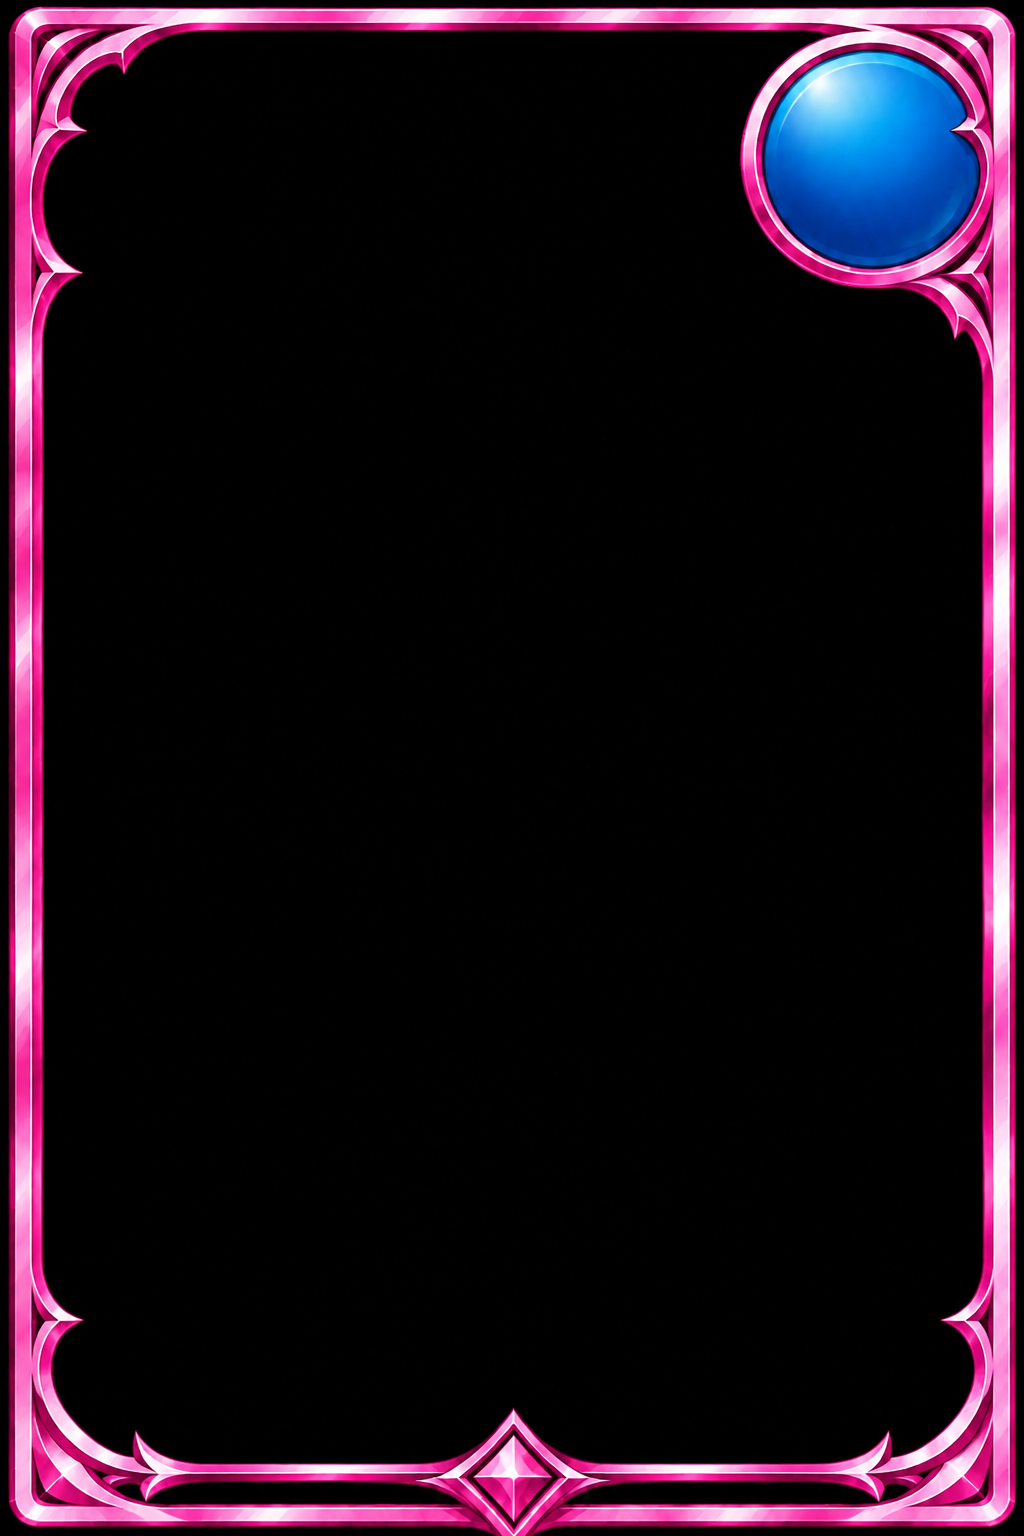
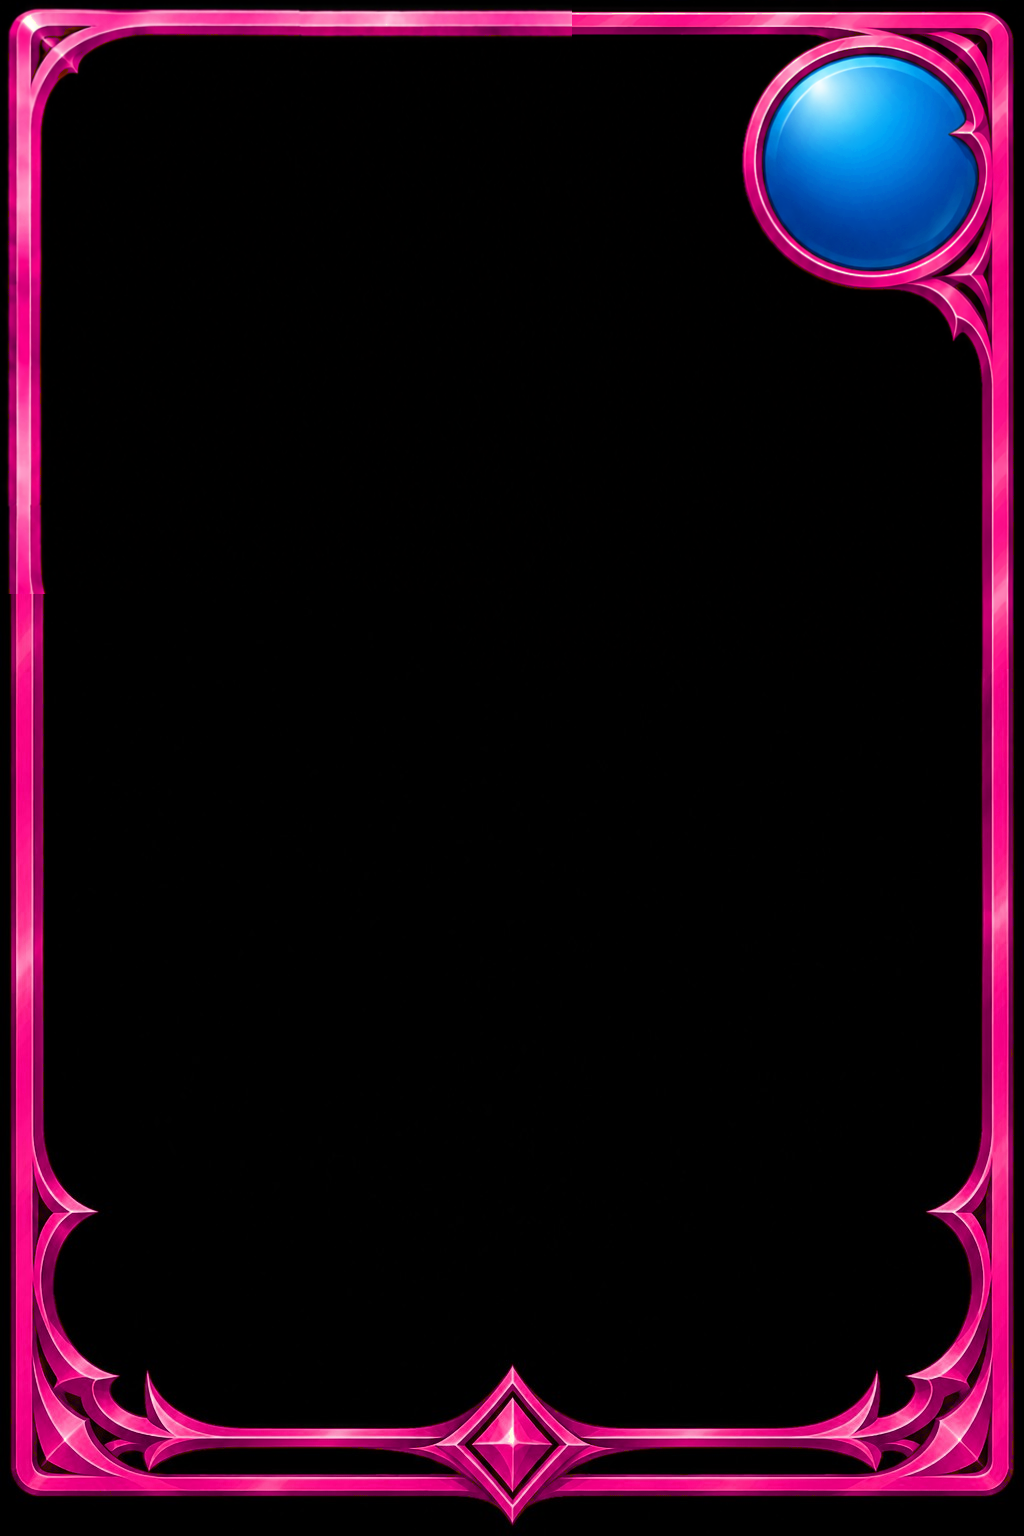
Khung lá phép nhanh: dùng khung hồng mới (đổi từ khung vàng)
Claude-Session: https://claude.ai/code/session_01XgSG6Z9xW8491CKVgy52Z1

Changed region(s): [[0.0, 0.0, 1.0, 1.0]]

diff --git a/src/lib/updates.ts b/src/lib/updates.ts
@@ -871,6 +871,7 @@ export const PENDING_NOTES: string[] = [
   "Lời nhắc giữa sân chỉ còn chữ trơn, không còn bảng.",
   "Lá phép nhanh trên tay có khung hồng mới.",
   "Lá phép/skill phản ứng được: bỏ chớp cam, thay bằng viền và glow màu của phép/skill, lá thở nhẹ.",
+  "Khung lá phép nhanh trên tay đổi sang khung hồng mới.",
 ];
 
 function remarkOf(notes: string[]) {

diff --git a/TIEP-TUC.md b/TIEP-TUC.md
@@ -631,3 +631,5 @@ Chủ game trả lời (29/10), CHƯA LÀM gì, chờ "ok" và trả lời câu 
 - KHUNG LÁ PHÉP NHANH HỒNG 02/11 (chủ game gửi 2 ảnh; Sonnet low, ĐÃ LÀM, nhánh `ccr-6ec5ff6c-vl497v`, CHƯA áp `main`): `public/ui/spell-frame-fast.png` (có viên mana) / `spell-frame-fast-nogem.png`, `card-face.tsx` chọn khi lá phép trên tay có `spellSpeed` = fast. Hồng khung gần trùng hồng game (#ff4fa6) nên không đổi màu. Chậm/siêu tốc/buff giữ khung cũ, chờ ảnh. Ô gem/icon tốc độ dùng `DEFAULT_SPELL_HAND` (chưa đo lại, kiểm bằng mắt).
 
 - VIỀN + THỞ THAY CHỚP CAM 02/11 (chủ game; Sonnet low, ĐÃ LÀM, nhánh `ccr-6ec5ff6c-vl497v`, CHƯA áp `main`): styles.css `.is-alert` dùng `--alert-color` + `alert-breathe` (outline màu, glow, `scale` 1→1,035, 1,5 giây) thay `alert-blink`; màu: lá phép trên tay = `spellKind(id).tone`, lá quái trên sân = `reactTone(cardId)` (play.tsx, màu vành skill: ưu tiên skill loại phép = hồng #ff4fa6), lá quái trên tay Bông mềm/Thế thân/Hoán đổi + xấp bài = hồng. `prime-glow` (quái chủ lực) vẫn cam, chưa đổi. Glow trên tay bị dải tay cắt bớt (như chớp cũ). Thử `/tmp/clashtest/box/al.mjs`.
+
+- KHUNG LÁ PHÉP NHANH ĐỔI KHUNG MỚI 02/11 (chủ game gửi 2 khung vàng mới, Claude đổi hue sang hồng bằng Python: vàng 15–70° → ~330°, giữ viên mana xanh; Sonnet low, ĐÃ LÀM, nhánh `ccr-6ec5ff6c-vl497v`, CHƯA áp `main`): thay `public/ui/spell-frame-fast.png` / `-nogem.png` (bản cũ còn trong git). Ảnh gốc có vệt nối lệch màu ở cạnh trái (~38%) và cạnh trên (bản có mana), chưa vá; khung đậm hơn khung cũ. Muốn sáng hơn/vá vệt thì báo.
